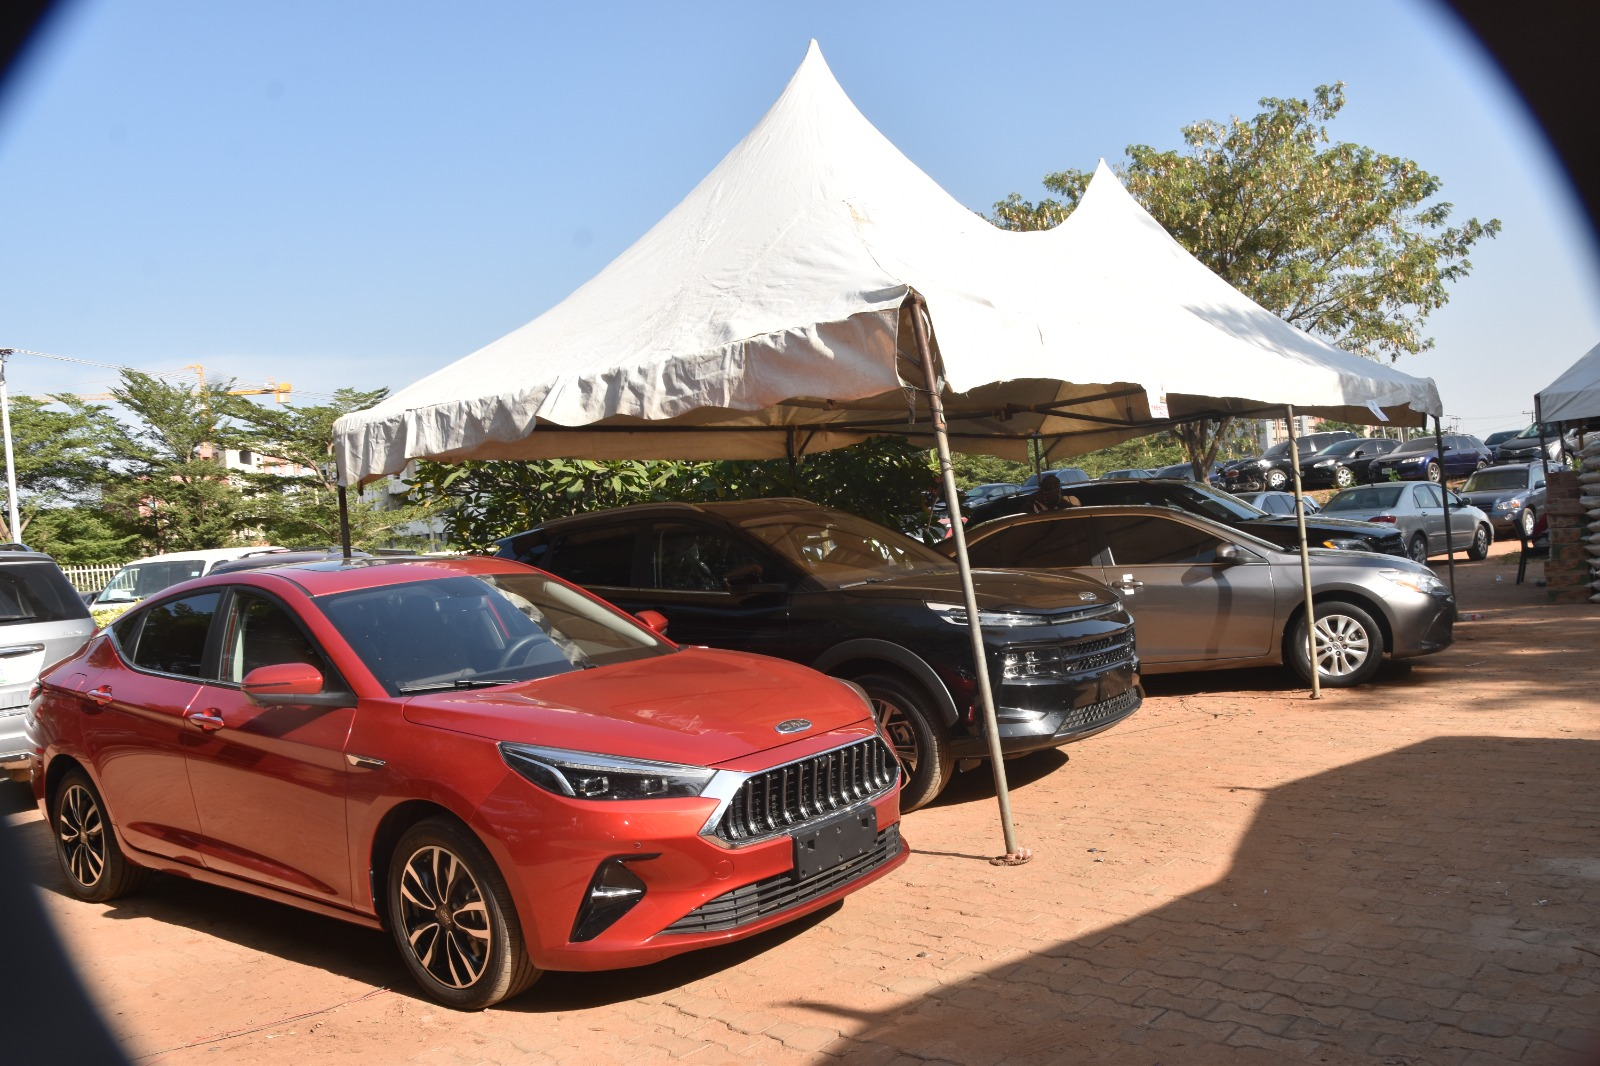
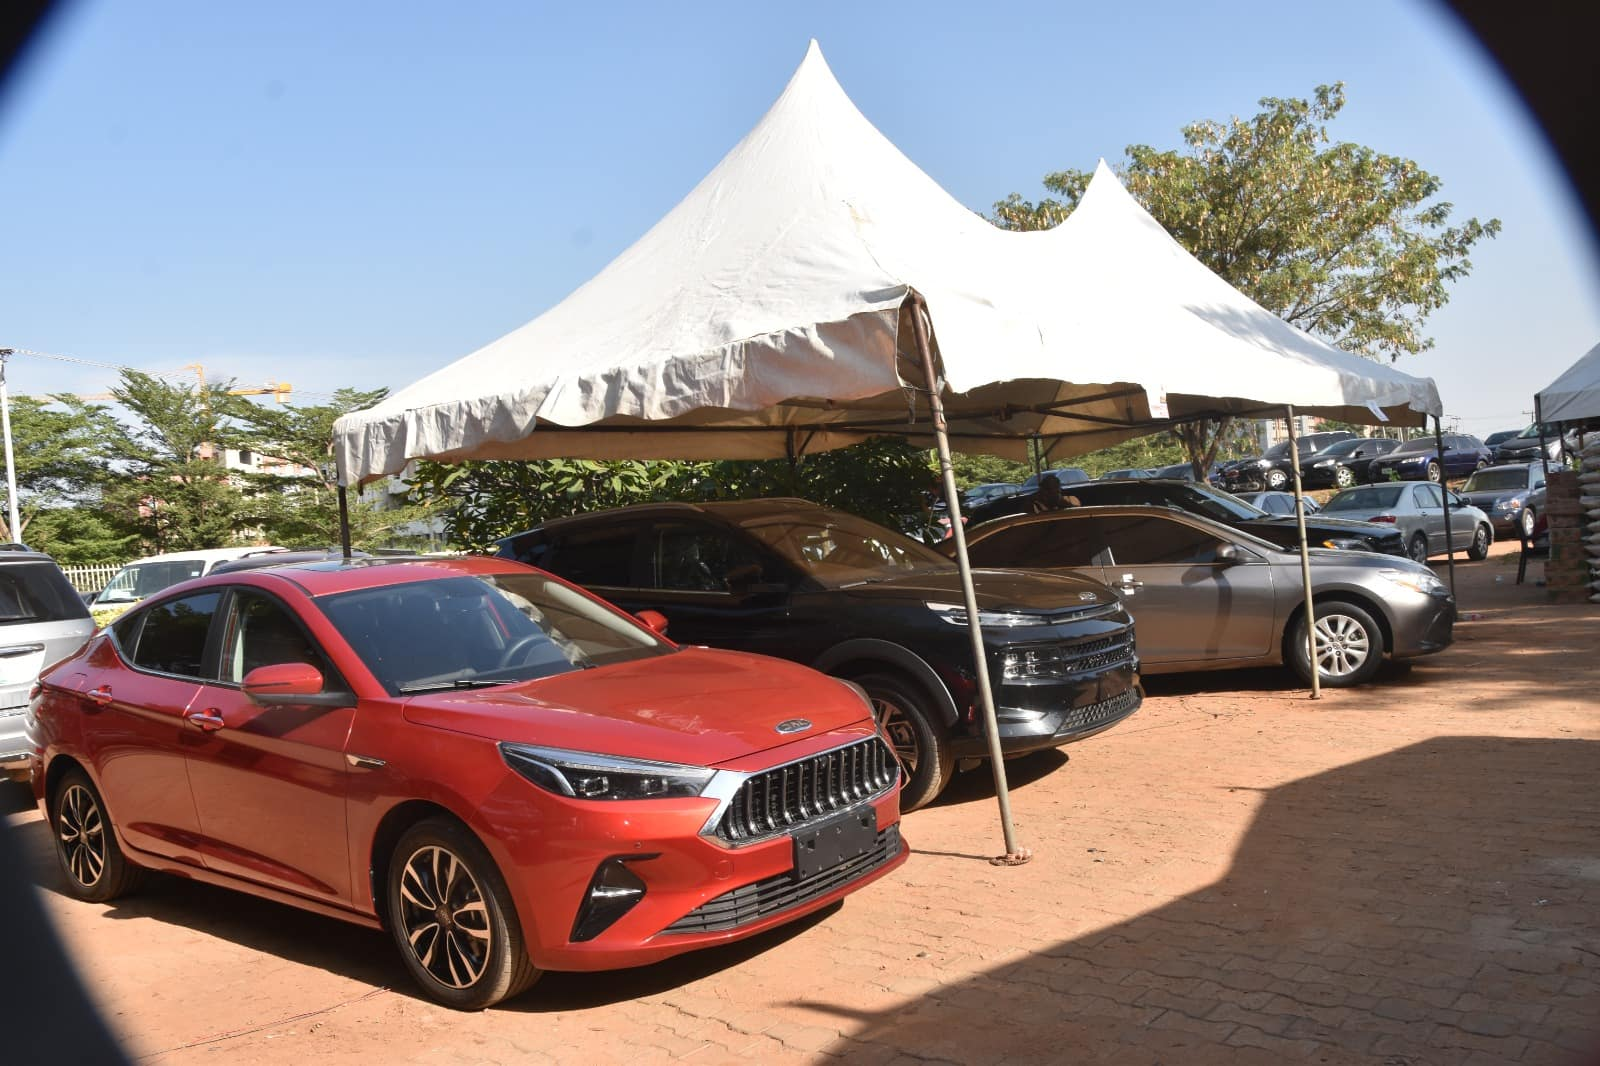
Cut page-load round trips and ship lighter hero images
Protected pages restored their session by probing four roles in sequence, and
the member dashboard awaited eight requests one after another, so a cold load
paid those round trips end to end. Both now run their requests together. The
navbar and dashboard also stop downloading the whole exhibition catalog just to
render an open/closed dot, and the oversized hero photos are re-encoded in
place at 1600px (landing photos drop from 3.9 MB to 1.55 MB).

diff --git a/app/my-coop/page.jsx b/app/my-coop/page.jsx
@@ -87,84 +87,81 @@ function MyCoopContent() {
       setLoading(true)
       setError('')
 
+      // Every request below is started up front: the dashboard used to await
+      // them one at a time, so a cold load paid eight round trips end to end.
+      // They now overlap, and results are still applied in reading order. Each
+      // request carries its own .catch so one failure can never leave an
+      // unhandled rejection, and a null result simply leaves that section
+      // showing its placeholder.
+      const request = (url) =>
+        fetch(url, { cache: 'no-store' })
+          .then(async (res) => ({ ok: res.ok, json: await res.json().catch(() => null) }))
+          .catch(() => null)
+
+      const profileReq = request(`/api/members/lookup?member_id=${encodeURIComponent(memberId)}`)
+      const eligibilityReq = request(`/api/members/eligibility?member_id=${encodeURIComponent(memberId)}`)
+      const ordersReq = request(`/api/orders/member?member_id=${encodeURIComponent(memberId)}`)
+      const cyclesReq = request('/api/cycles/active')
+      const ramOrdersReq = request(`/api/ram/orders?member_id=${encodeURIComponent(memberId)}`)
+      const shoppingReq = request('/api/system/shopping')
+      const ramShoppingReq = request('/api/system/ram-shopping')
+      const catalogReq = request('/api/exhibition/availability')
+
       // 1) Member profile snapshot (via the server API — the browser no
-      // longer queries the members table directly)
-      try {
-        const res = await fetch(`/api/members/lookup?member_id=${encodeURIComponent(memberId)}`, { cache: 'no-store' })
-        const json = await res.json().catch(() => null)
-        if (!cancelled) setProfile(json?.ok ? json.member : null)
-      } catch {
-        if (!cancelled) setError('Could not reach the Coop right now. Check your connection and refresh to retry.')
+      // longer queries the members table directly). A network failure here is
+      // what shows the retry banner.
+      const profileRes = await profileReq
+      if (!cancelled) {
+        if (!profileRes) {
+          setError('Could not reach the Coop right now. Check your connection and refresh to retry.')
+        } else {
+          setProfile(profileRes.json?.ok ? profileRes.json.member : null)
+        }
       }
 
       // 2) Eligibility (savings/loan exposure + credit)
-      try {
-        const eligRes = await fetch(`/api/members/eligibility?member_id=${encodeURIComponent(memberId)}`, { cache: 'no-store' })
-        const eligJson = await eligRes.json().catch(() => null)
-        if (!cancelled) setElig(eligJson?.ok ? eligJson.eligibility : null)
-      } catch (e) {
-        console.error('Failed to load eligibility:', e.message)
-      }
+      const eligibilityRes = await eligibilityReq
+      if (!cancelled) setElig(eligibilityRes?.json?.ok ? eligibilityRes.json.eligibility : null)
 
       // 3) Food orders (enriched with principal + interest)
-      try {
-        const ordRes = await fetch(`/api/orders/member?member_id=${encodeURIComponent(memberId)}`, { cache: 'no-store' })
-        const ordJson = await ordRes.json().catch(() => null)
-        if (!cancelled) setOrders(ordJson?.ok ? (ordJson.orders || []) : [])
-      } catch (e) {
-        console.error('Failed to load food orders:', e.message)
+      const ordersRes = await ordersReq
+      if (!cancelled) setOrders(ordersRes?.json?.ok ? (ordersRes.json.orders || []) : [])
+
+      // 4) Active food cycle + active ram cycle
+      const cyclesRes = await cyclesReq
+      const fc = cyclesRes?.json?.ok ? cyclesRes.json.food : null
+      const rc = cyclesRes?.json?.ok ? cyclesRes.json.ram : null
+      if (!cancelled) {
+        setFoodCycle(fc || null)
+        setRamCycle(rc || null)
       }
 
-      // 4) Active food cycle + 5) Active ram cycle (both via the server API)
-      let rc = null
-      try {
-        const cycRes = await fetch('/api/cycles/active', { cache: 'no-store' })
-        const cycJson = await cycRes.json().catch(() => null)
-        const fc = cycJson?.ok ? cycJson.food : null
-        rc = cycJson?.ok ? cycJson.ram : null
-        if (!cancelled) setFoodCycle(fc || null)
-        if (!cancelled) setRamCycle(rc || null)
-      } catch (e) {
-        console.error('Failed to load cycles:', e.message)
+      // 5) RAM order totals — this cycle's count needs the cycle above, but the
+      // request itself was already in flight with the rest.
+      const ramRes = await ramOrdersReq
+      if (!cancelled) {
+        const rows = (Array.isArray(ramRes?.json?.orders) ? ramRes.json.orders : []).filter((r) => r.status !== 'Cancelled')
+        const cycleRows = rc ? rows.filter((r) => Number(r.ram_cycle_id) === Number(rc.id)) : []
+        setRamStats({
+          count: rows.length,
+          total: rows.reduce((s, r) => s + Number(r.total_amount || 0), 0),
+          cycleCount: cycleRows.length,
+          cycleTotal: cycleRows.reduce((s, r) => s + Number(r.total_amount || 0), 0),
+        })
       }
 
-      // 5b) RAM order totals for this member (via the server API)
-      try {
-        const ramRes = await fetch(`/api/ram/orders?member_id=${encodeURIComponent(memberId)}`, { cache: 'no-store' })
-        const ramJson = await ramRes.json().catch(() => null)
-        if (!cancelled) {
-          const rows = (Array.isArray(ramJson?.orders) ? ramJson.orders : []).filter((r) => r.status !== 'Cancelled')
-          const cycleRows = rc ? rows.filter((r) => Number(r.ram_cycle_id) === Number(rc.id)) : []
-          setRamStats({
-            count: rows.length,
-            total: rows.reduce((s, r) => s + Number(r.total_amount || 0), 0),
-            cycleCount: cycleRows.length,
-            cycleTotal: cycleRows.reduce((s, r) => s + Number(r.total_amount || 0), 0),
-          })
-        }
-      } catch (e) {
-        console.error('Failed to load ram data:', e.message)
-      }
-
-      // 6) Shopping availability for quick actions (food, ram, exhibition)
-      const [f, r, e] = await Promise.allSettled([
-        fetch('/api/system/shopping', { cache: 'no-store' }),
-        fetch('/api/system/ram-shopping', { cache: 'no-store' }),
-        fetch(`/api/exhibition/catalog?member_id=${encodeURIComponent(memberId)}`, { cache: 'no-store' }),
+      // 6) Module availability for the three shop cards
+      const [shoppingRes, ramShoppingRes, exhibitionRes] = await Promise.all([
+        shoppingReq,
+        ramShoppingReq,
+        catalogReq,
       ])
-      if (f.status === 'fulfilled') {
-        const j = await f.value.json().catch(() => null)
-        if (!cancelled && j) setShoppingOpen(!!j.open)
-      }
-      if (r.status === 'fulfilled') {
-        const j = await r.value.json().catch(() => null)
-        if (!cancelled && j) setRamOpen(!!j.open)
-      }
-      if (e.status === 'fulfilled') {
-        const j = await e.value.json().catch(() => null)
-        if (!cancelled && j?.ok) {
-          setExhibitionOpen(!!j.open)
-          setExhibitionCycle(j.cycle || null)
+      if (!cancelled) {
+        if (shoppingRes?.json) setShoppingOpen(!!shoppingRes.json.open)
+        if (ramShoppingRes?.json) setRamOpen(!!ramShoppingRes.json.open)
+        if (exhibitionRes?.json?.ok) {
+          setExhibitionOpen(!!exhibitionRes.json.open)
+          setExhibitionCycle(exhibitionRes.json.cycle || null)
         }
       }
 

diff --git a/app/contexts/AuthContext.jsx b/app/contexts/AuthContext.jsx
@@ -31,39 +31,50 @@ const LOGOUT_ENDPOINTS = {
  * role's introspection endpoint. Returns the user object or null.
  */
 async function introspectSession() {
-  for (const [role, endpoint] of Object.entries(SESSION_ENDPOINTS)) {
+  // Probe every role at once. This used to run sequentially, so every cold
+  // load of a protected page paid up to four round trips before the portal
+  // could render anything; in parallel it costs one. Priority is preserved by
+  // taking the first hit in declaration order (admin → rep → vendor → member).
+  const probes = Object.entries(SESSION_ENDPOINTS).map(async ([role, endpoint]) => {
     try {
       const res = await fetch(endpoint, { cache: 'no-store', credentials: 'include' })
-      if (!res.ok) continue
-      const json = await res.json()
-      if (!json?.ok) continue
-
-      // Admin/rep/vendor return flat claims; member nests them under `member`.
-      const memberClaims = json.member && typeof json.member === 'object' ? json.member : {}
-      const branchId = json.branch_id ?? memberClaims.branch_id
-      const branchCode = json.branch_code ?? memberClaims.branch_code
-      const branchName = json.branch_name ?? memberClaims.branch_name
-      const department = json.department ?? memberClaims.department
-      const id = json.id || memberClaims.member_id || memberClaims.id || role
-
-      return {
-        type: role,
-        id,
-        authenticated: true,
-        ...(json.module ? { module: json.module } : {}),
-        ...(branchId != null ? { branchId } : {}),
-        ...(branchCode ? { branchCode } : {}),
-        ...(branchName ? { branchName } : {}),
-        // A department rep's scope lives in the httpOnly cookie — without it
-        // a reload would silently widen the view back to the whole branch.
-        ...(department ? { department } : {}),
-        ...(memberClaims.name ? { name: memberClaims.name } : {}),
-      }
+      if (!res.ok) return null
+      const json = await res.json().catch(() => null)
+      if (!json?.ok) return null
+      return { role, json }
     } catch {
-      // Try the next role
+      // A failed probe just means that role is not signed in.
+      return null
     }
+  })
+
+  const results = await Promise.all(probes)
+  const hit = results.find(Boolean)
+  if (!hit) return null
+
+  const { role, json } = hit
+
+  // Admin/rep/vendor return flat claims; member nests them under `member`.
+  const memberClaims = json.member && typeof json.member === 'object' ? json.member : {}
+  const branchId = json.branch_id ?? memberClaims.branch_id
+  const branchCode = json.branch_code ?? memberClaims.branch_code
+  const branchName = json.branch_name ?? memberClaims.branch_name
+  const department = json.department ?? memberClaims.department
+  const id = json.id || memberClaims.member_id || memberClaims.id || role
+
+  return {
+    type: role,
+    id,
+    authenticated: true,
+    ...(json.module ? { module: json.module } : {}),
+    ...(branchId != null ? { branchId } : {}),
+    ...(branchCode ? { branchCode } : {}),
+    ...(branchName ? { branchName } : {}),
+    // A department rep's scope lives in the httpOnly cookie — without it
+    // a reload would silently widen the view back to the whole branch.
+    ...(department ? { department } : {}),
+    ...(memberClaims.name ? { name: memberClaims.name } : {}),
   }
-  return null
 }
 
 function AuthProviderContent({ children }) {

diff --git a/app/api/exhibition/availability/route.js b/app/api/exhibition/availability/route.js
@@ -1,0 +1,78 @@
+// app/api/exhibition/availability/route.js
+//   GET /api/exhibition/availability
+// Lightweight "is the exhibition open?" probe for the navbar dot and the
+// module card on the member dashboard. Those two only need a boolean and the
+// season's name/end date, but both used to call /api/exhibition/catalog, which
+// also builds the full vendor + product list (and its negotiated-price query).
+// This route answers from the cycles table alone.
+import { NextResponse } from 'next/server'
+import { createClient } from '@/lib/supabaseServer'
+
+export const runtime = 'nodejs'
+export const dynamic = 'force-dynamic'
+
+function isMissingTable(error, table) {
+  const code = String(error?.code || '')
+  if (code === '42P01') return true
+  const msg = `${error?.message || ''} ${error?.details || ''}`.toLowerCase()
+  return (
+    msg.includes(String(table || '').toLowerCase()) &&
+    (msg.includes('does not exist') || msg.includes('could not find the table'))
+  )
+}
+
+export async function GET() {
+  try {
+    const supabase = createClient()
+
+    // Same rule the catalog applies: "live" means status 'active' AND inside
+    // its date window. The latest cycle (any status) is returned so the UI can
+    // still show a draft/closed season's name.
+    const { data: activeRows, error: activeErr } = await supabase
+      .from('exhibition_cycles')
+      .select('id, name, code, status, starts_at, ends_at')
+      .eq('status', 'active')
+      .order('created_at', { ascending: false })
+      .limit(2)
+
+    if (activeErr) {
+      if (isMissingTable(activeErr, 'exhibition')) return NextResponse.json({ ok: true, open: false, cycle: null })
+      return NextResponse.json({ ok: false, error: activeErr.message }, { status: 500 })
+    }
+
+    const { data: latest, error: latestErr } = await supabase
+      .from('exhibition_cycles')
+      .select('id, name, code, status, starts_at, ends_at')
+      .order('created_at', { ascending: false })
+      .maybeSingle()
+
+    if (latestErr && !isMissingTable(latestErr, 'exhibition')) {
+      return NextResponse.json({ ok: false, error: latestErr.message }, { status: 500 })
+    }
+
+    const now = Date.now()
+    const live = (activeRows || []).find((c) => {
+      if (c.starts_at && new Date(c.starts_at).getTime() > now) return false
+      if (c.ends_at && new Date(c.ends_at).getTime() <= now) return false
+      return true
+    })
+
+    const cycle = live || latest
+    if (!cycle) return NextResponse.json({ ok: true, open: false, cycle: null })
+
+    return NextResponse.json({
+      ok: true,
+      open: !!live,
+      cycle: {
+        id: Number(cycle.id),
+        name: cycle.name || '',
+        code: cycle.code || '',
+        status: cycle.status || 'draft',
+        starts_at: cycle.starts_at || null,
+        ends_at: cycle.ends_at || null,
+      },
+    })
+  } catch (e) {
+    return NextResponse.json({ ok: false, error: e?.message || 'Failed to load availability' }, { status: 500 })
+  }
+}

diff --git a/app/components/Navbar.jsx b/app/components/Navbar.jsx
@@ -156,7 +156,7 @@ export default function Navbar() {
           fetch('/api/system/shopping', { cache: 'no-store' }),
           fetch('/api/system/ram-shopping', { cache: 'no-store' }),
           memberIdKey
-            ? fetch(`/api/exhibition/catalog?member_id=${encodeURIComponent(memberIdKey)}`, { cache: 'no-store' })
+            ? fetch('/api/exhibition/availability', { cache: 'no-store' })
             : Promise.reject(new Error('no member')),
         ])
         if (f.status === 'fulfilled') {
